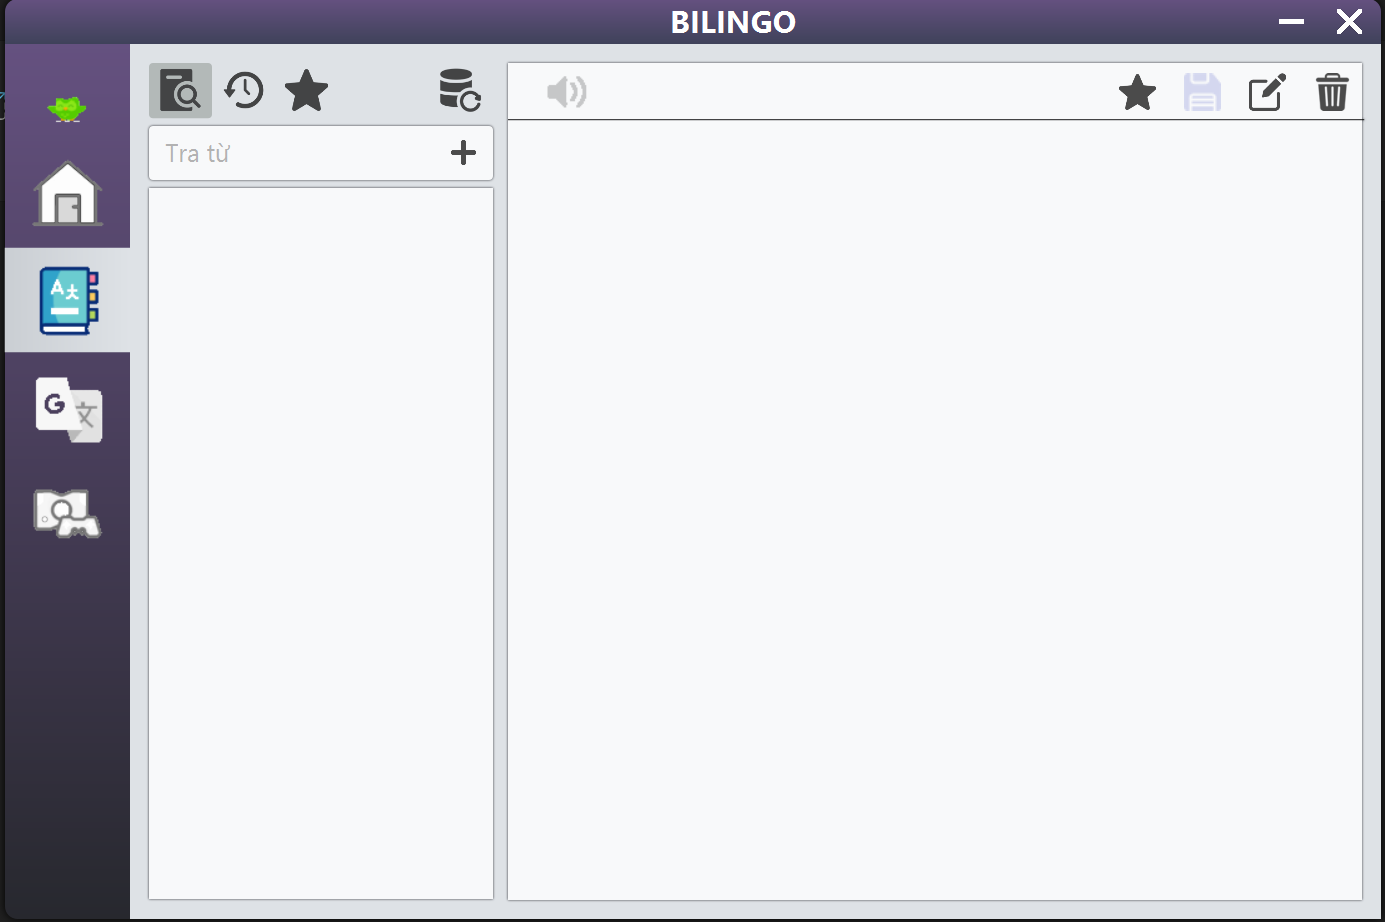
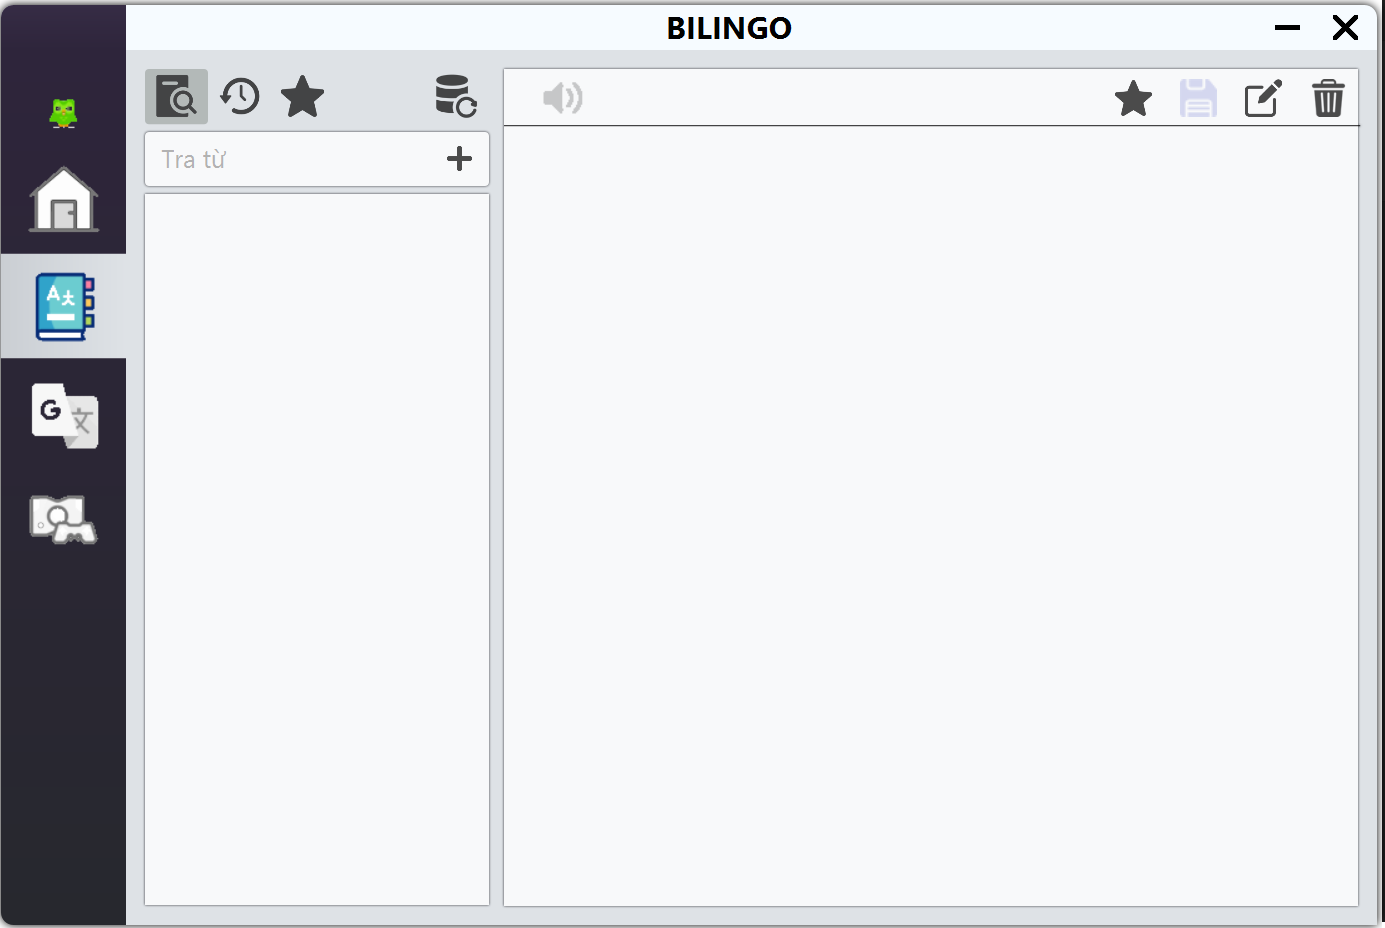
Change some appearances.

Changed region(s): [[0.0, 0.0, 1.0, 1.0]]

diff --git a/src/main/resources/front_end/css/navigation.css b/src/main/resources/front_end/css/navigation.css
@@ -16,7 +16,7 @@
     -fx-background-color: transparent;
     -fx-background-radius: 0 10 0 0;
     -fx-alignment: center;
-    -fx-background-image: url('../graphic/icons/close.png');
+    -fx-background-image: url('../graphic/icons/black_close.png');
     -fx-background-position: 50%;
     -fx-background-size: 20;
     -fx-background-repeat: no-repeat;
@@ -25,6 +25,7 @@
 }
 
 #closeButton:hover {
+    -fx-background-image: url('../graphic/icons/white_close.png');
     -fx-background-color: #C42B1C;
 }
 
@@ -77,13 +78,12 @@
 #titleBar {
     -fx-pref-width: 1000;
     -fx-pref-height: 30;
-    -fx-background-color: linear-gradient(to bottom, #655180, #3f425a);
-
+    -fx-background-color: #F6FBFF;
     -fx-background-radius: 10 10 0 0;
 }
 
 #nav-panel {
-    -fx-background-color: linear-gradient(to bottom, #655180, #27282E);
+    -fx-background-color: linear-gradient(to bottom, #2E253B, #27282E);
 
     -fx-pref-width: 100;
     -fx-spacing: 2.5px;

diff --git a/src/main/resources/front_end/css/bootstrapfx.css b/src/main/resources/front_end/css/bootstrapfx.css
@@ -1,0 +1,47 @@
+.strong {
+    -fx-font-weight: bold;
+}
+
+.h1, .h2, .h3, .h4, .h5, .h6 {
+    -fx-text-fill: inherit;
+    -fx-fill: inherit;
+}
+
+.h1 {
+    -fx-font-size: 36px;
+}
+
+.h2 {
+    -fx-font-size: 30px;
+}
+
+.h3 {
+    -fx-font-size: 24px;
+}
+
+.h4 {
+    -fx-font-size: 18px;
+}
+
+.h5 {
+    -fx-font-size: 14px;
+}
+
+.h6 {
+    -fx-font-size: 12px;
+}
+
+.lead {
+    -fx-font-size: 16px;
+    -fx-font-weight: 300;
+}
+
+#tmpPane {
+    -fx-background-color: rgba(255, 255, 255, 1);
+    -fx-padding: 3;
+    -fx-border-color: #000000;
+    -fx-border-width: 3px;
+    -fx-border-insets: -3;
+    -fx-border-radius: 5;
+    -fx-background-radius: 5;
+}

diff --git a/src/main/app/views/games/GameNotification.java b/src/main/app/views/games/GameNotification.java
@@ -4,6 +4,7 @@ import javafx.animation.FadeTransition;
 import javafx.animation.ScaleTransition;
 import javafx.geometry.Insets;
 import javafx.geometry.Pos;
+import javafx.scene.Parent;
 import javafx.scene.control.Label;
 import javafx.scene.image.Image;
 import javafx.scene.image.ImageView;
@@ -19,6 +20,7 @@ import javafx.scene.text.Text;
 import javafx.scene.text.TextAlignment;
 import javafx.util.Duration;
 import org.kordamp.bootstrapfx.BootstrapFX;
+import views.File_loader;
 import views.animations.GameAnimations;
 import views.controllers.games_ctrl.CTW_ctrl;
 import views.controllers.games_ctrl.Game_ctrl;
@@ -168,71 +170,10 @@ public class GameNotification {
         helpPane.setPrefHeight(500);
         helpPane.setLayoutX(250);
         helpPane.setLayoutY(80);
-        VBox vbox = new VBox(5);
-        vbox.setPadding(new Insets(0, 0, 0, 0));
-
-        Label ins = new Label("HOW TO PLAY");
-        ins.setTextAlignment(TextAlignment.CENTER);
-        ins.getStyleClass().setAll("h2", "strong");
-
-        Line line = new Line();
-        line.setStroke(Paint.valueOf("b8b8b8"));
-        line.setEndX(490);
-
-        Label insParagraph = new Label("""
-                • Guess the WORDLE in six tries.
-                • Each guess must be a valid five-letter word.
-                • Hit the enter button to submit.
-                • After each guess, the color of the tiles will change to
-                show how close your guess was to the word.""");
-        insParagraph.setTextAlignment(TextAlignment.LEFT);
-        insParagraph.getStyleClass().setAll("lead");
-        insParagraph.setStyle("-fx-line-spacing: -0.2em;");
-
-        Label labelExample = new Label("Examples");
-        labelExample.getStyleClass().setAll("h3", "strong");
-        labelExample.setTextAlignment(TextAlignment.LEFT);
-
-        /* 3 EXAMPLES */
-        HBox firstWordHBox = giveExampleWord("WEARY", "correct-letter-example", 0);
-        Label firstWordLabel = new Label("The letter W is in the word and in the correct spot.");
-        firstWordLabel.getStyleClass().setAll("lead");
-
-        HBox secondWordHBox = giveExampleWord("PILLS", "valid-letter-example", 1);
-        Label secondWordLabel = new Label("The letter I is in the word but in the wrong spot.");
-        secondWordLabel.getStyleClass().setAll("lead");
-
-        HBox thirdWordHBox = giveExampleWord("VAGUE", "absent-letter-example", 2);
-        Label thirdWordLabel = new Label("The letter G is not in the word in any spot.");
-        thirdWordLabel.getStyleClass().setAll("lead");
-
-        vbox.setAlignment(Pos.CENTER);
-        vbox.getChildren().addAll(ins, line, insParagraph, labelExample, firstWordHBox,
-                firstWordLabel, secondWordHBox, secondWordLabel, thirdWordHBox,
-                thirdWordLabel);
-
-
-        helpPane.setCenter(vbox);
-        helpPane.setStyle("-fx-background-color: rgba(255, 255, 255, 1); -fx-padding: 3;" +
-                "-fx-border-color: #000000; -fx-border-width: 2px;" +
-                "-fx-border-radius: 5; -fx-background-radius: 5;");
-        helpPane.getStylesheets().add(BootstrapFX.bootstrapFXStylesheet());
+        Parent tmp = File_loader.getInstance().fxml_loadTab(
+                "front_end/fxml/games/wordle_ins.fxml", null);
+        helpPane.setCenter(tmp);
         setMouseDrag(helpPane);
-    }
-
-    private static HBox giveExampleWord(String sampleWord, String typeExample, int index) {
-        String[] letter = sampleWord.split("");
-        HBox WordHBox = new HBox(3);
-        WordHBox.setAlignment(Pos.CENTER);
-        for (int i = 0; i < letter.length; i++) {
-            Label label = new Label(letter[i]);
-            if (i == index)
-                label.getStyleClass().setAll(typeExample);
-            else
-                label.getStyleClass().setAll("default-letter-example");
-            WordHBox.getChildren().add(label);
-        }
-        return WordHBox;
     }
 
     public static void instructionCTW(BorderPane helpPane) {
@@ -240,37 +181,10 @@ public class GameNotification {
         helpPane.setPrefHeight(400);
         helpPane.setLayoutX(250);
         helpPane.setLayoutY(80);
-        VBox vbox = new VBox(5);
-        vbox.setPadding(new Insets(0, 0, 0, 0));
 
-        Label ins = new Label("HOW TO PLAY");
-        ins.setTextAlignment(TextAlignment.CENTER);
-        ins.getStyleClass().setAll("h2", "strong");
-
-        Line line = new Line();
-        line.setStroke(Paint.valueOf("b8b8b8"));
-        line.setEndX(490);
-
-        ImageView img = new ImageView(new Image("game/ctw/CTW_example.png",
-                480, 480, true, false));
-
-        Label insParagraph = new Label("""
-                • The left picture is RAIN
-                • The right picture is BOW
-                • Hence, the answer is RAINBOW.""");
-        insParagraph.setTextAlignment(TextAlignment.LEFT);
-        insParagraph.getStyleClass().setAll("lead");
-        insParagraph.setStyle("-fx-line-spacing: -0.2em;");
-
-        vbox.setAlignment(Pos.CENTER);
-        vbox.getChildren().addAll(ins, line, img, insParagraph);
-
-
-        helpPane.setCenter(vbox);
-        helpPane.setStyle("-fx-background-color: rgba(255, 255, 255, 1); -fx-padding: 3;" +
-                "-fx-border-color: #000000; -fx-border-width: 2px;" +
-                "-fx-border-radius: 5; -fx-background-radius: 5;");
-        helpPane.getStylesheets().add(BootstrapFX.bootstrapFXStylesheet());
+        Parent tmp = File_loader.getInstance().fxml_loadTab(
+                "front_end/fxml/games/ctw_ins.fxml", null);
+        helpPane.setCenter(tmp);
         setMouseDrag(helpPane);
     }
 
@@ -279,34 +193,10 @@ public class GameNotification {
         helpPane.setPrefHeight(400);
         helpPane.setLayoutX(250);
         helpPane.setLayoutY(80);
-        VBox vbox = new VBox(5);
-        vbox.setPadding(new Insets(0, 0, 0, 0));
 
-        Label ins = new Label("HOW TO PLAY");
-        ins.setTextAlignment(TextAlignment.CENTER);
-        ins.getStyleClass().setAll("h2", "strong");
-
-        Line line = new Line();
-        line.setStroke(Paint.valueOf("b8b8b8"));
-        line.setEndX(490);
-
-        ImageView img = new ImageView(new Image("game/quizz_ex.png",
-                480, 480, true, false));
-
-        Label insParagraph = new Label("Choose the missing word from one of the four options A, B, C, D.");
-        insParagraph.setTextAlignment(TextAlignment.LEFT);
-        insParagraph.getStyleClass().setAll("lead");
-        insParagraph.setStyle("-fx-line-spacing: -0.2em;");
-
-        vbox.setAlignment(Pos.CENTER);
-        vbox.getChildren().addAll(ins, line, img, insParagraph);
-
-
-        helpPane.setCenter(vbox);
-        helpPane.setStyle("-fx-background-color: rgba(255, 255, 255, 1); -fx-padding: 3;" +
-                "-fx-border-color: #000000; -fx-border-width: 2px;" +
-                "-fx-border-radius: 5; -fx-background-radius: 5;");
-        helpPane.getStylesheets().add(BootstrapFX.bootstrapFXStylesheet());
+        Parent tmp = File_loader.getInstance().fxml_loadTab(
+                "front_end/fxml/games/quizz_ins.fxml", null);
+        helpPane.setCenter(tmp);
         setMouseDrag(helpPane);
     }
 
